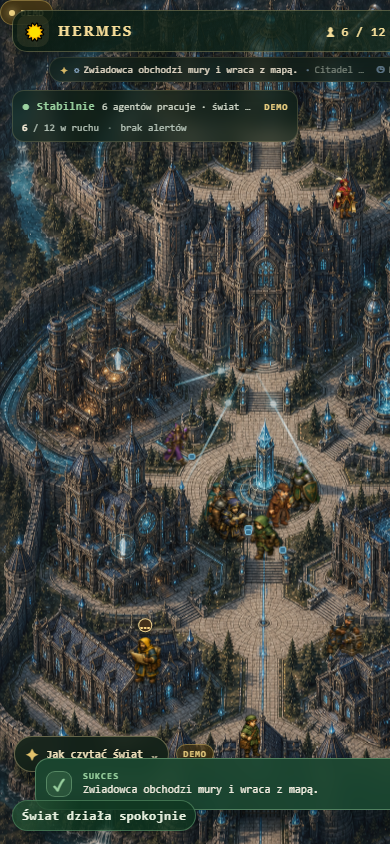
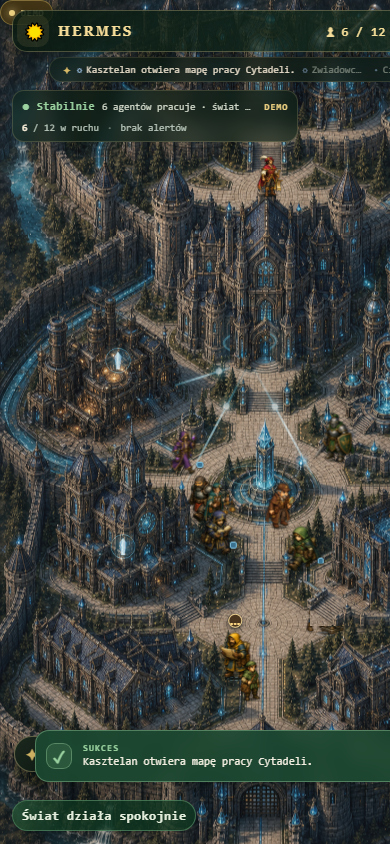
polish mobile agent readability and placements

diff --git a/src/world/data/mapNavigation.js b/src/world/data/mapNavigation.js
@@ -73,33 +73,33 @@ export const MOBILE_MAP_NODES = freeze({
   mobile_observation_west_approach: node('mobile_observation_west_approach', 61.5, 68.2, 'safe'),
   mobile_observation_steps: node('mobile_observation_steps', 64, 70, 'stairs'),
   mobile_east_observation_point: node('mobile_east_observation_point', 65.5, 71.2, 'observation'),
-  default_mobile_home: node('default_mobile_home', 50, 88, 'home'),
-  default_mobile_safe: node('default_mobile_safe', 50, 86.2, 'safe'),
-  default_mobile_work: node('default_mobile_work', 50, 84.5, 'work'),
-  developer_mobile_home: node('developer_mobile_home', 29, 79.5, 'home'),
-  developer_mobile_safe: node('developer_mobile_safe', 31.5, 77.5, 'safe'),
-  developer_mobile_work: node('developer_mobile_work', 34, 75.5, 'work'),
-  devops_mobile_home: node('devops_mobile_home', 71, 80.5, 'home'),
-  devops_mobile_safe: node('devops_mobile_safe', 70, 78.5, 'safe'),
-  devops_mobile_work: node('devops_mobile_work', 69, 76.5, 'work'),
-  komandos_mobile_home: node('komandos_mobile_home', 60, 60, 'home'),
-  komandos_mobile_safe: node('komandos_mobile_safe', 63, 58.5, 'safe'),
-  komandos_mobile_work: node('komandos_mobile_work', 66, 57, 'work'),
+  default_mobile_home: node('default_mobile_home', 50, 81.5, 'home'),
+  default_mobile_safe: node('default_mobile_safe', 50, 79, 'safe'),
+  default_mobile_work: node('default_mobile_work', 50, 76.5, 'work'),
+  developer_mobile_home: node('developer_mobile_home', 41, 84, 'home'),
+  developer_mobile_safe: node('developer_mobile_safe', 39, 82, 'safe'),
+  developer_mobile_work: node('developer_mobile_work', 36.5, 80.5, 'work'),
+  devops_mobile_home: node('devops_mobile_home', 59, 82, 'home'),
+  devops_mobile_safe: node('devops_mobile_safe', 62, 78, 'safe'),
+  devops_mobile_work: node('devops_mobile_work', 65, 74, 'work'),
+  komandos_mobile_home: node('komandos_mobile_home', 67, 54.5, 'home'),
+  komandos_mobile_safe: node('komandos_mobile_safe', 69, 52.5, 'safe'),
+  komandos_mobile_work: node('komandos_mobile_work', 72, 50, 'work'),
   orchestrator_mobile_home: node('orchestrator_mobile_home', 50, 45, 'home'),
   orchestrator_mobile_safe: node('orchestrator_mobile_safe', 50, 44, 'safe'),
   orchestrator_mobile_work: node('orchestrator_mobile_work', 50, 43, 'work'),
-  outreach_mobile_home: node('outreach_mobile_home', 69, 27, 'home'),
-  outreach_mobile_safe: node('outreach_mobile_safe', 67.5, 28.5, 'safe'),
-  outreach_mobile_work: node('outreach_mobile_work', 66, 30, 'work'),
-  reviewer_mobile_home: node('reviewer_mobile_home', 56, 62, 'home'),
-  reviewer_mobile_safe: node('reviewer_mobile_safe', 59.5, 63.5, 'safe'),
-  reviewer_mobile_work: node('reviewer_mobile_work', 63, 65, 'work'),
-  synthesizer_mobile_home: node('synthesizer_mobile_home', 42, 59, 'home'),
-  synthesizer_mobile_safe: node('synthesizer_mobile_safe', 38.5, 57, 'safe'),
-  synthesizer_mobile_work: node('synthesizer_mobile_work', 35, 55, 'work'),
-  verifier_mobile_home: node('verifier_mobile_home', 44, 62, 'home'),
-  verifier_mobile_safe: node('verifier_mobile_safe', 40.5, 64, 'safe'),
-  verifier_mobile_work: node('verifier_mobile_work', 37, 66, 'work'),
+  outreach_mobile_home: node('outreach_mobile_home', 72, 73, 'home'),
+  outreach_mobile_safe: node('outreach_mobile_safe', 68, 71, 'safe'),
+  outreach_mobile_work: node('outreach_mobile_work', 64, 70, 'work'),
+  reviewer_mobile_home: node('reviewer_mobile_home', 66, 62, 'home'),
+  reviewer_mobile_safe: node('reviewer_mobile_safe', 69, 64, 'safe'),
+  reviewer_mobile_work: node('reviewer_mobile_work', 72, 66, 'work'),
+  synthesizer_mobile_home: node('synthesizer_mobile_home', 39, 56, 'home'),
+  synthesizer_mobile_safe: node('synthesizer_mobile_safe', 36, 58, 'safe'),
+  synthesizer_mobile_work: node('synthesizer_mobile_work', 34, 60, 'work'),
+  verifier_mobile_home: node('verifier_mobile_home', 42, 68, 'home'),
+  verifier_mobile_safe: node('verifier_mobile_safe', 40, 71, 'safe'),
+  verifier_mobile_work: node('verifier_mobile_work', 38, 74, 'work'),
 })
 
 const route = ({
@@ -144,19 +144,19 @@ export const MAP_ROUTE_DEFINITIONS = freeze({
       profile: 'coder', buildingId: 'forge', home: 'citadel_main_gate',
       outbound: ['citadel_main_gate', 'citadel_front_plaza', 'central_fountain_east', 'archive_southwest_apron', 'archive_south_apron', 'forge_west_approach', 'forge_entrance'],
       entrance: 'forge_entrance', work: 'forge_workstation', safe: 'forge_west_approach',
-      laneOffset: -0.025, walkDurationMs: 6_400, workDurationMs: 6_800, workEffect: 'forge-fire', workVisibility: 'inside',
+      laneOffset: -0.15, walkDurationMs: 6_400, workDurationMs: 6_800, workEffect: 'forge-fire', workVisibility: 'inside',
     }),
     researcher: route({
       profile: 'researcher', buildingId: 'library', home: 'citadel_main_gate',
       outbound: ['citadel_main_gate', 'library_plaza_junction', 'library_east_approach', 'library_stair_approach', 'library_entrance'],
       entrance: 'library_entrance', work: 'library_workstation', safe: 'library_east_approach',
-      laneOffset: 0.025, walkDurationMs: 5_900, workDurationMs: 7_200, workEffect: 'archive-pulse', workVisibility: 'inside',
+      laneOffset: 0.15, walkDurationMs: 5_900, workDurationMs: 7_200, workEffect: 'archive-pulse', workVisibility: 'inside',
     }),
     prospecting: route({
-      profile: 'prospecting', buildingId: 'scout-lodge', home: 'citadel_main_gate',
-      outbound: ['citadel_main_gate', 'observatory_path_west', 'observatory_path_mid', 'observatory_stair_approach', 'north_wall_observation'],
+      profile: 'prospecting', buildingId: 'scout-lodge', home: 'observatory_path_west',
+      outbound: ['observatory_path_west', 'observatory_path_mid', 'observatory_stair_approach', 'north_wall_observation'],
       entrance: 'north_wall_observation', work: 'north_wall_observation', safe: 'observatory_path_mid',
-      laneOffset: 0.025, walkDurationMs: 7_000, arriveDurationMs: 900, workDurationMs: 4_200, successDurationMs: 1_500, workEffect: 'scout-signal',
+      laneOffset: 0.18, walkDurationMs: 7_000, arriveDurationMs: 900, workDurationMs: 4_200, successDurationMs: 1_500, workEffect: 'scout-signal',
     }),
   }),
   mobile: freeze({
@@ -164,19 +164,19 @@ export const MAP_ROUTE_DEFINITIONS = freeze({
       profile: 'coder', buildingId: 'forge', home: 'mobile_central_south_plaza',
       outbound: ['mobile_central_south_plaza', 'mobile_fountain_south_split', 'mobile_fountain_sw_bypass', 'mobile_forge_lower_lane', 'mobile_forge_stairs', 'mobile_forge_entrance'],
       entrance: 'mobile_forge_entrance', work: 'mobile_forge_workstation', safe: 'mobile_forge_lower_lane',
-      laneOffset: -0.025, walkDurationMs: 6_400, workDurationMs: 6_800, workEffect: 'forge-fire', workVisibility: 'inside',
+      laneOffset: -0.15, walkDurationMs: 6_400, workDurationMs: 6_800, workEffect: 'forge-fire', workVisibility: 'inside',
     }),
     researcher: route({
-      profile: 'researcher', buildingId: 'library', home: 'mobile_library_dispatch',
-      outbound: ['mobile_library_dispatch', 'mobile_library_lane_junction', 'mobile_library_approach', 'mobile_library_stairs', 'mobile_library_entrance'],
+      profile: 'researcher', buildingId: 'library', home: 'mobile_library_lane_junction',
+      outbound: ['mobile_library_lane_junction', 'mobile_library_approach', 'mobile_library_stairs', 'mobile_library_entrance'],
       entrance: 'mobile_library_entrance', work: 'mobile_library_workstation', safe: 'mobile_library_approach',
-      laneOffset: 0.025, walkDurationMs: 5_900, workDurationMs: 7_200, workEffect: 'archive-pulse', workVisibility: 'inside',
+      laneOffset: 0.15, walkDurationMs: 5_900, workDurationMs: 7_200, workEffect: 'archive-pulse', workVisibility: 'inside',
     }),
     prospecting: route({
-      profile: 'prospecting', buildingId: 'scout-lodge', home: 'mobile_central_south_plaza',
-      outbound: ['mobile_central_south_plaza', 'mobile_fountain_se_lane', 'mobile_observation_west_approach', 'mobile_observation_steps', 'mobile_east_observation_point'],
+      profile: 'prospecting', buildingId: 'scout-lodge', home: 'mobile_fountain_se_lane',
+      outbound: ['mobile_fountain_se_lane', 'mobile_observation_west_approach', 'mobile_observation_steps', 'mobile_east_observation_point'],
       entrance: 'mobile_east_observation_point', work: 'mobile_east_observation_point', safe: 'mobile_observation_west_approach',
-      laneOffset: 0.025, walkDurationMs: 7_000, arriveDurationMs: 900, workDurationMs: 4_200, successDurationMs: 1_500, workEffect: 'scout-signal',
+      laneOffset: 0.18, walkDurationMs: 7_000, arriveDurationMs: 900, workDurationMs: 4_200, successDurationMs: 1_500, workEffect: 'scout-signal',
     }),
   }),
 })

diff --git a/src/world/mapAgentPresentation.test.js b/src/world/mapAgentPresentation.test.js
@@ -216,13 +216,13 @@ test('Zwiadowca patrols, observes distinctly and stops as stuck on a safe road n
   })
 
   const lodge = resolve(START)
-  closeTo(lodge.worldX, 46)
-  closeTo(lodge.worldY, 36.5)
+  closeTo(lodge.worldX, 52)
+  closeTo(lodge.worldY, 35.5)
 
   const patrol = resolve(START + 3_500)
   assert.equal(patrol.journeyStage, 'road')
   assert.equal(patrol.isMoving, true)
-  assert.ok(patrol.worldX > 46 && patrol.worldX < 67)
+  assert.ok(patrol.worldX > 52 && patrol.worldX < 67)
 
   const watchPoint = resolve(START + 7_900)
   assert.equal(watchPoint.journeyStage, 'work')
@@ -271,8 +271,8 @@ test('Zwiadowca returns from the watch point to the lodge after success', () => 
 
   const home = resolve(completedAt + 8_501)
   assert.equal(home.journeyStage, 'idle')
-  closeTo(home.worldX, 46)
-  closeTo(home.worldY, 36.5)
+  closeTo(home.worldX, 52)
+  closeTo(home.worldY, 35.5)
 })
 
 test('map status contract separates movement, work, success, waiting, warning, stuck, error and offline', () => {
@@ -295,6 +295,27 @@ test('map status contract separates movement, work, success, waiting, warning, s
   }
   assert.equal(modelAt(completedAt + 700, doneTask).signalState, 'success')
   assert.equal(modelAt(completedAt + 1_600, doneTask).signalState, 'none')
+
+  const staleDone = { ...doneTask, id: 'stale-done', visualCompletedAt: iso(START - 30_000), completedAt: iso(START - 30_000) }
+  const waiting = resolveMapAgentPresentation({
+    agent: coder,
+    tasks: [staleDone, { ...runningCoderTask, id: 'queued', status: 'pending' }],
+    alerts: [],
+    lifecycle: { phase: 'ready', connection: 'online' },
+    now: START,
+  })
+  assert.equal(waiting.visualState, 'waiting')
+  assert.equal(waiting.severity, 'none')
+
+  const warning = resolveMapAgentPresentation({
+    agent: coder,
+    tasks: [{ ...runningCoderTask, status: 'pending' }],
+    alerts: [{ entityId: 'coder', severity: 'warning' }],
+    lifecycle: { phase: 'ready', connection: 'online' },
+    now: START,
+  })
+  assert.equal(warning.visualState, 'alert')
+  assert.equal(warning.severity, 'warning')
 
   const blocked = modelAt(START + 1_000, { ...runningCoderTask, status: 'blocked' })
   assert.equal(blocked.visualState, 'stuck')

diff --git a/src/world/data/mapAgentProfiles.js b/src/world/data/mapAgentProfiles.js
@@ -13,8 +13,8 @@ const SHADOW_BY_PROFILE = freeze({ coder: 1, researcher: 0.86, prospecting: 0.86
 const SPEED_BY_PROFILE = freeze({ coder: 0.86, researcher: 0.78, prospecting: 1.08, default: 1.05, outreach: 1.02, komandos: 0.9 })
 const NAVIGATION_BY_PROFILE = freeze({
   coder: freeze({ homeNode: freeze({ desktop: 'citadel_main_gate', mobile: 'mobile_central_south_plaza' }), workNode: freeze({ desktop: 'forge_workstation', mobile: 'mobile_forge_workstation' }), routeId: 'forge-route' }),
-  researcher: freeze({ homeNode: freeze({ desktop: 'citadel_main_gate', mobile: 'mobile_library_dispatch' }), workNode: freeze({ desktop: 'library_workstation', mobile: 'mobile_library_workstation' }), routeId: 'library-route' }),
-  prospecting: freeze({ homeNode: freeze({ desktop: 'citadel_main_gate', mobile: 'mobile_central_south_plaza' }), workNode: freeze({ desktop: 'north_wall_observation', mobile: 'mobile_east_observation_point' }), routeId: 'observation-route' }),
+  researcher: freeze({ homeNode: freeze({ desktop: 'citadel_main_gate', mobile: 'mobile_library_lane_junction' }), workNode: freeze({ desktop: 'library_workstation', mobile: 'mobile_library_workstation' }), routeId: 'library-route' }),
+  prospecting: freeze({ homeNode: freeze({ desktop: 'observatory_path_west', mobile: 'mobile_fountain_se_lane' }), workNode: freeze({ desktop: 'north_wall_observation', mobile: 'mobile_east_observation_point' }), routeId: 'observation-route' }),
 })
 
 const createProfile = (id) => {
@@ -40,7 +40,7 @@ const createProfile = (id) => {
     homeNode: navigation.homeNode,
     workNode: navigation.workNode,
     routeId: navigation.routeId,
-    statusMapping: freeze({ idle: 'idle', walking: 'walk', working: 'work', thinking: 'thinking', waiting: 'waiting', stuck: 'stuck', success: 'success', warning: 'alert', error: 'blocked', offline: 'offline' }),
+    statusMapping: freeze({ idle: 'idle', walking: 'walk', working: 'work', thinking: 'thinking', waiting: 'waiting', stuck: 'stuck', success: 'success', warning: 'alert', error: 'alert', offline: 'offline' }),
   })
 }
 

diff --git a/src/world/mapAgentPresentation.js b/src/world/mapAgentPresentation.js
@@ -5,7 +5,7 @@ import { getWorldLifeJourney } from './data/roadGraph.js'
 const clamp = (value, min = 0, max = 1) => Math.max(min, Math.min(max, value))
 const point = (x, y) => ({ x: Number(x) || 0, y: Number(y) || 0 })
 
-const STATUS_RANK = Object.freeze({ error: 0, blocked: 1, running: 2, review: 3, scheduled: 4, ready: 5, done: 6 })
+const STATUS_RANK = Object.freeze({ error: 0, blocked: 1, running: 2, review: 3, waiting: 4, pending: 4, scheduled: 4, ready: 4, done: 6 })
 function asTime(value, fallback = 0) {
   if (Number.isFinite(Number(value)) && value !== null && value !== '') return Number(value)
   const parsed = Date.parse(value ?? '')
@@ -20,7 +20,7 @@ export function getPresentationTask(agent, tasks = []) {
   return tasks
     .filter((task) => taskMatchesAgent(task, agent))
     .sort((left, right) => {
-      const statusOrder = (STATUS_RANK[left?.status] ?? 99) - (STATUS_RANK[right?.status] ?? 99)
+      const statusOrder = (STATUS_RANK[String(left?.status ?? '').toLowerCase()] ?? 99) - (STATUS_RANK[String(right?.status ?? '').toLowerCase()] ?? 99)
       if (statusOrder) return statusOrder
       const leftAt = asTime(left?.visualCompletedAt ?? left?.startedAt ?? left?.createdAt, 0)
       const rightAt = asTime(right?.visualCompletedAt ?? right?.startedAt ?? right?.createdAt, 0)

diff --git a/src/world/data/mapAgentManifest.js b/src/world/data/mapAgentManifest.js
@@ -5,7 +5,7 @@ export const MAP_AGENT_CANVAS = Object.freeze({
   height: 128,
   footAnchorX: 0.5,
   footAnchorY: 0.96875,
-  renderHeight: 56,
+  renderHeight: 52,
 })
 
 const frame = (root, name) => `${root}/${name}.webp`
@@ -45,13 +45,13 @@ const spriteSet = ({ profile, directory, renderHeight = MAP_AGENT_CANVAS.renderH
 const FALLBACK_SPRITE_SET = spriteSet({
   profile: 'fallback',
   directory: 'fallback',
-  renderHeight: 54,
+  renderHeight: 50,
   scale: 0.94,
 })
 
 export const MAP_AGENT_MANIFEST = Object.freeze({
-  default: spriteSet({ profile: 'default', directory: 'default', renderHeight: 54, scale: 1 }),
-  coder: spriteSet({ profile: 'coder', directory: 'coder', renderHeight: 56, scale: 1.05 }),
+  default: spriteSet({ profile: 'default', directory: 'default', renderHeight: 50, scale: 1 }),
+  coder: spriteSet({ profile: 'coder', directory: 'coder', renderHeight: 52, scale: 1.05 }),
   developer: spriteSet({ profile: 'developer', directory: 'developer', renderHeight: 56, scale: 1 }),
   devops: spriteSet({ profile: 'devops', directory: 'devops', renderHeight: 56, scale: 1 }),
   komandos: spriteSet({ profile: 'komandos', directory: 'komandos', renderHeight: 56, scale: 1 }),

diff --git a/src/world/LivingWorldStateMachine.js b/src/world/LivingWorldStateMachine.js
@@ -16,7 +16,17 @@ const asTime = (value, fallback) => {
   return Number.isFinite(parsed) ? parsed : fallback
 }
 
-const TASK_STATUS_RANK = Object.freeze({ error: 0, blocked: 1, running: 2, review: 3, scheduled: 4, ready: 5, done: 6 })
+const TASK_STATUS_RANK = Object.freeze({
+  error: 0,
+  blocked: 1,
+  running: 2,
+  review: 3,
+  waiting: 4,
+  pending: 4,
+  scheduled: 4,
+  ready: 4,
+  done: 6,
+})
 
 const taskFor = (agent, tasks) => tasks
   .filter((task) => task.assignee === agent.profile || task.ownerAgentId === agent.id || task.agentId === agent.profile)

diff --git a/src/world/mapNavigation.test.js b/src/world/mapNavigation.test.js
@@ -33,6 +33,7 @@ test('every reference route uses named nodes from its current layout and returns
         assert.ok(nodes[nodeId], `${layout}/${profile}: unknown ${nodeId}`)
       }
       assert.deepEqual(journey.outboundWaypoints.at(-1), journey.entrancePoint)
+      assert.deepEqual(journey.outboundWaypoints[0], journey.homePoint)
       assert.deepEqual(journey.returnWaypoints[0], journey.entrancePoint)
       assert.deepEqual(journey.returnWaypoints.at(-1), journey.homePoint)
       assert.ok(definition.outboundNodeIds.includes(definition.safeBlockedNodeId))

diff --git a/src/components/map-agents/MapAgentSprite.jsx b/src/components/map-agents/MapAgentSprite.jsx
@@ -78,6 +78,9 @@ function MapAgentSprite({
       '--map-agent-tail': `${transparentTail}px`,
       '--map-agent-facing': facingScale,
       '--map-agent-bob': `${bob}px`,
+      '--map-agent-accent': profile.accent,
+      '--map-agent-anchor-y-offset': `${profile.anchorCorrection.yPx}px`,
+      '--map-agent-shadow-scale': profile.shadowScale,
       '--map-agent-world-x': `${clamp(Number(worldX) || 0, -10, 110)}cqw`,
       '--map-agent-world-y': `${clamp(Number(worldY) || 0, -10, 110)}cqh`,
     }}

diff --git a/src/components/map-agents/MapAgentSprite.css b/src/components/map-agents/MapAgentSprite.css
@@ -59,11 +59,11 @@
   position: absolute;
   left: 50%;
   bottom: -1px;
-  width: clamp(16px, 36%, 22px);
+  width: clamp(18px, 44%, 26px);
   height: clamp(4px, 7%, 5px);
   border-radius: 50%;
   background: radial-gradient(ellipse, rgb(2 7 6 / 0.48) 0 34%, rgb(2 7 6 / 0.24) 58%, transparent 78%);
-  transform: translateX(-50%);
+  transform: translateX(-50%) scaleX(var(--map-agent-shadow-scale, 1));
   transform-origin: center;
   pointer-events: none;
 }

diff --git a/src/components/overlays/WorldMomentToast.jsx b/src/components/overlays/WorldMomentToast.jsx
@@ -15,7 +15,7 @@ const ROOT_STYLE = {
   position: 'absolute',
   zIndex: 5,
   right: 'max(14px, env(safe-area-inset-right))',
-  bottom: 'max(34px, calc(env(safe-area-inset-bottom) + 24px))',
+  bottom: 'max(62px, calc(env(safe-area-inset-bottom) + 52px))',
   left: 'max(14px, env(safe-area-inset-left))',
   display: 'flex',
   justifyContent: 'center',

diff --git a/src/world/mapAgentProfiles.test.js b/src/world/mapAgentProfiles.test.js
@@ -21,5 +21,6 @@ test('every map agent profile has renderer, navigation and behavior contracts', 
     assert.ok(profile.workNode.desktop && profile.workNode.mobile)
     assert.ok(profile.routeId)
     assert.ok(getMapAgentSpriteSet(profile.spriteProfile))
+    assert.equal(profile.statusMapping.error, 'alert')
   }
 })

diff --git a/src/world/mapAgentManifest.test.js b/src/world/mapAgentManifest.test.js
@@ -18,7 +18,7 @@ test('map sprites have the shared canvas, foot anchor and complete runtime frame
     height: 128,
     footAnchorX: 0.5,
     footAnchorY: 0.96875,
-    renderHeight: 56,
+    renderHeight: 52,
   })
   assert.equal(assertMapAgentManifestSeparation(), true)
 
